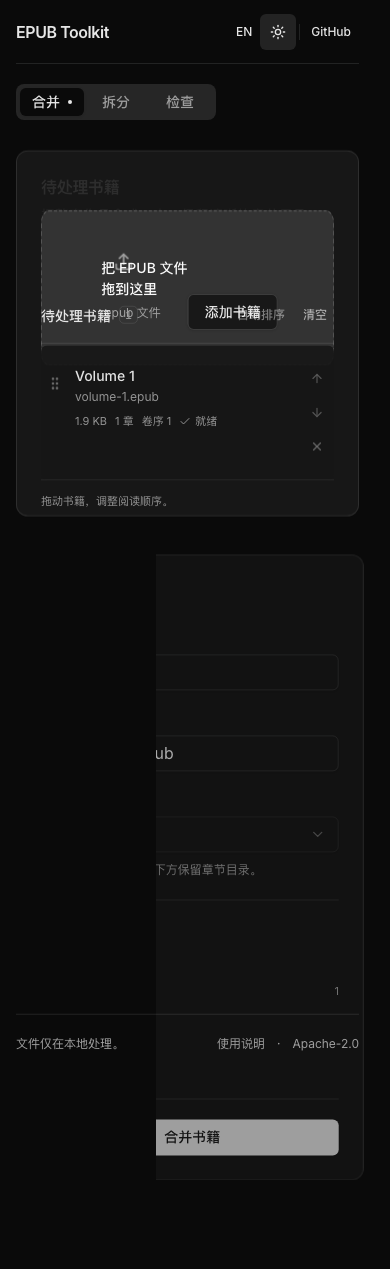
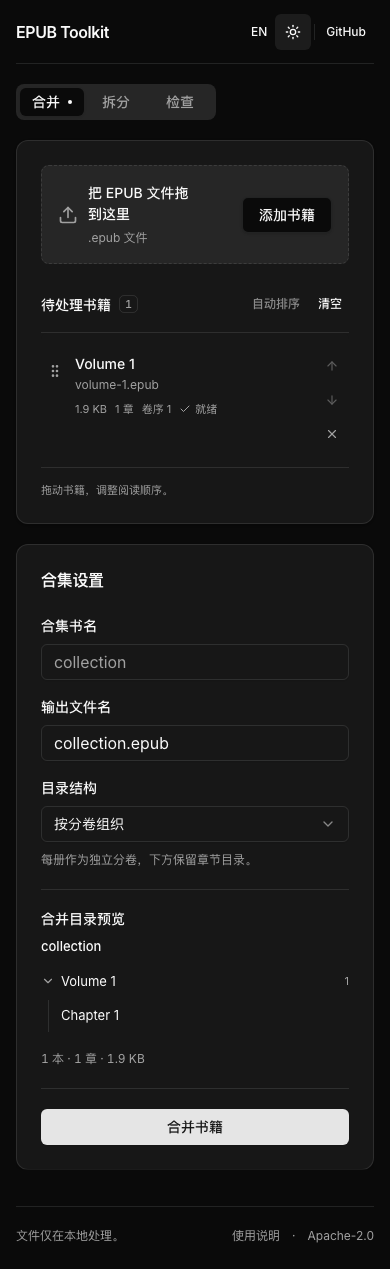
docs: capture the settled mobile workspace

diff --git a/tests/e2e/workspace.spec.ts b/tests/e2e/workspace.spec.ts
@@ -163,6 +163,10 @@ test("keeps language and theme preferences and fits a phone", async ({
     )
     .toBe(true);
   if (process.env.UPDATE_SCREENSHOTS) {
+    await expect(page.locator(".source-intro")).toHaveCount(0);
+    await expect.poll(() => page.locator(".workspace-stage, .workspace-grid, .file-panel, .dropzone, .workspace-detail").evaluateAll(nodes => nodes.every(node => getComputedStyle(node).transform === "none"))).toBe(true);
+    await expect.poll(() => page.locator(".workspace-detail").evaluateAll(nodes => nodes.every(node => getComputedStyle(node).opacity === "1" && getComputedStyle(node).clipPath.match(/[\d.]+/g)?.every(value => Number(value) === 0)))).toBe(true);
+    await page.mouse.move(0, 0);
     await page.screenshot({ path: "docs/mobile-dark.png", fullPage: true });
   }
 });
